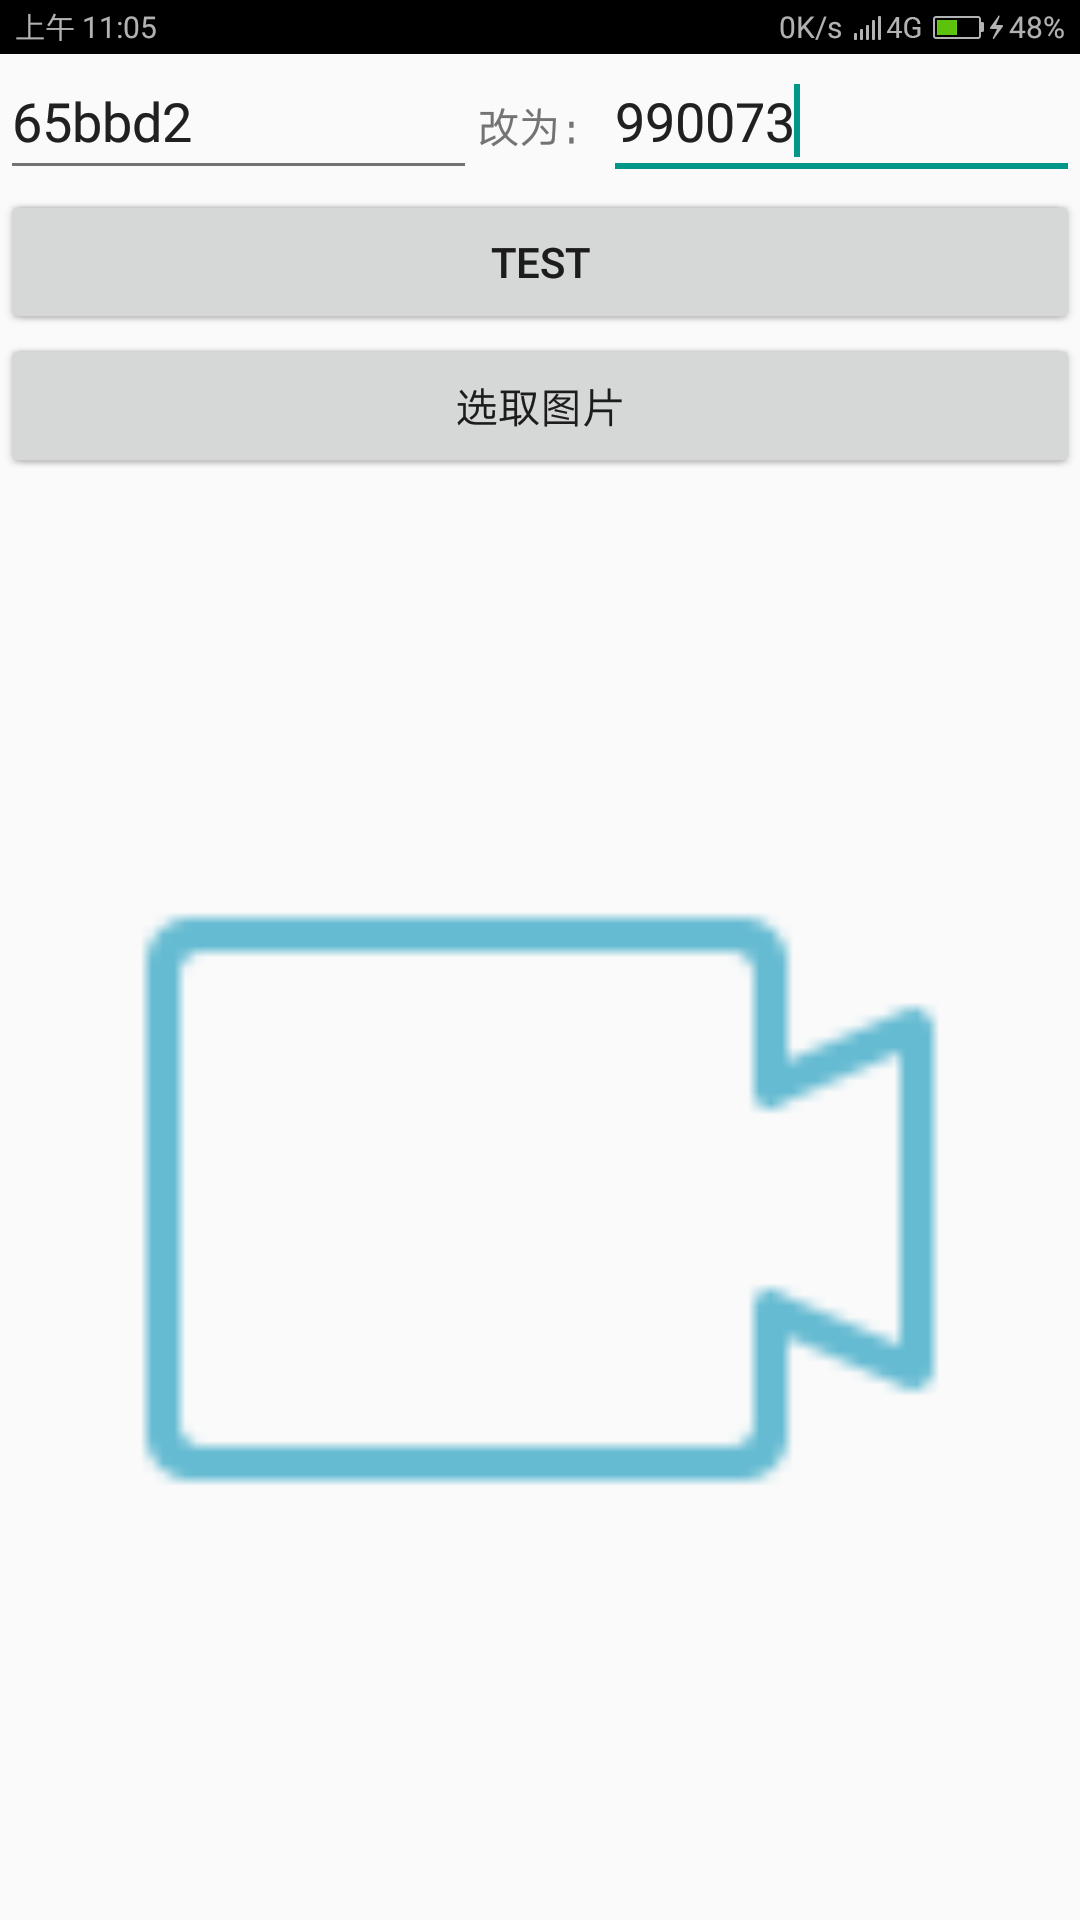
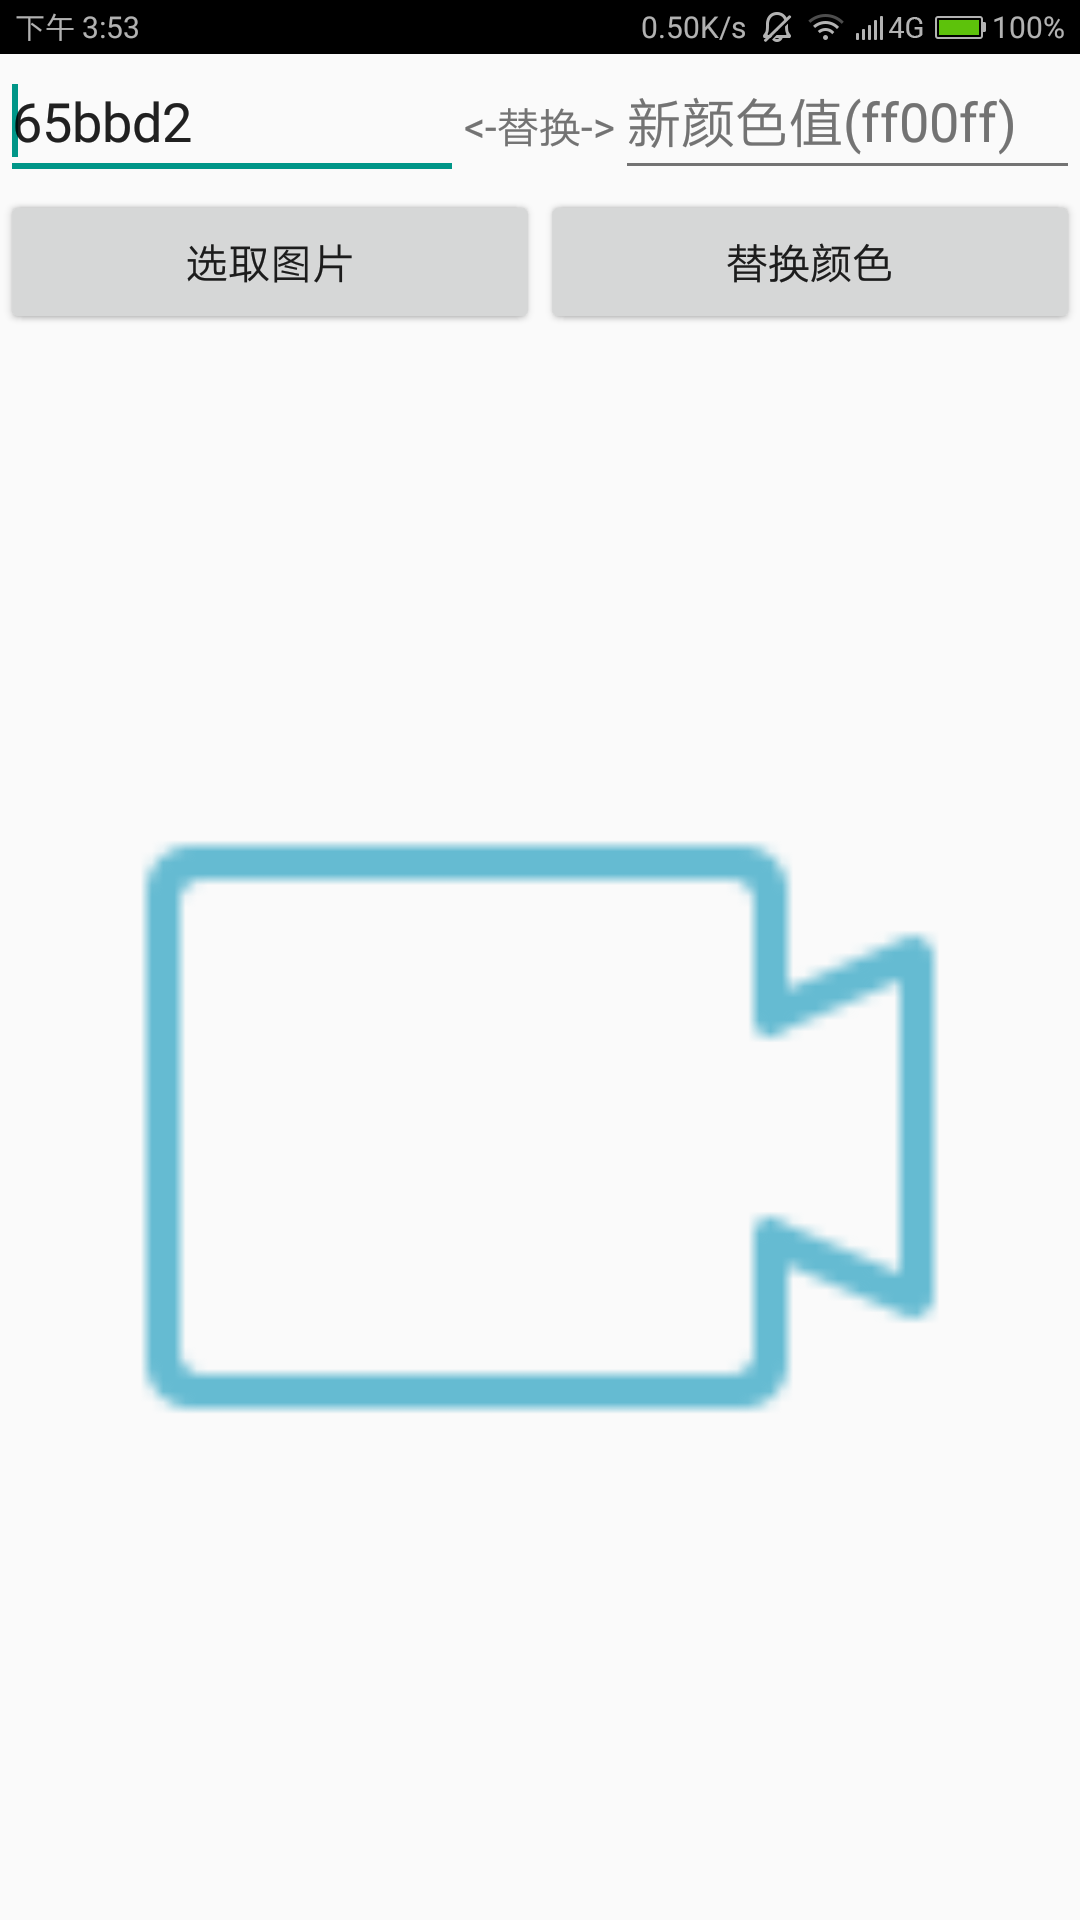
解决替换后选色还是原来图片的,修改页面布局

diff --git a/src/com/smarttiger/changergb/MainActivity.java b/src/com/smarttiger/changergb/MainActivity.java
@@ -50,15 +50,12 @@ public class MainActivity extends Activity {
 	private TextView textView;
 	
 	private Bitmap bitmap;
-	private Bitmap bitmapNew;
 	private Bitmap imageBitmap;//屏幕取色时用的
 	
 	private int bitmapWidth;
 	private int bitmapHeight;
 	private float imageviewWidth;
 	private float imageviewHeight;
-	
-	private ProgressDialog pDialog;
 	
 	@Override
 	protected void onCreate(Bundle savedInstanceState) {
@@ -85,9 +82,10 @@ public class MainActivity extends Activity {
 				int rgbNew = HexStringToInt(colorNew);
 				
 				if(TextUtils.isEmpty(colorOld)) {
-					bitmapNew = getAlphaBitmap(bitmap, rgbNew);
-					imageView.setImageBitmap(bitmapNew);
-					bitmap = bitmapNew;
+					bitmap = getAlphaBitmap(bitmap, rgbNew);
+					imageView.setImageBitmap(bitmap);
+					imageView.buildDrawingCache();
+					imageBitmap = imageView.getDrawingCache();
 					return;
 				} else if(!isColorString(colorOld)){
 					Toast toast = Toast.makeText(context, "格式错误！(f0f0f0)", 0);
@@ -97,13 +95,7 @@ public class MainActivity extends Activity {
 				}
 				
 				int rgbOld = HexStringToInt(colorOld);
-
-//				bitmapNew = changeBitmapRGB(bitmap, rgbOld, rgbNew);
-//				imageView.setImageBitmap(bitmapNew);
-//				imageBitmap = imageView.getDrawingCache();
 				
-//				pDialog = showProgress(context, "替换中");
-
 				ShowDialogUtil.showRainbowProgress(context, "替换中");
 				
 				new ChangeBitmapRGB().execute(rgbOld, rgbNew);
@@ -121,11 +113,11 @@ public class MainActivity extends Activity {
 		});
 		imageView.setOnTouchListener(new OnGetColorTouchListener());
 		
-		bitmap = BitmapFactory.decodeResource(getResources(), R.drawable.pic);
-		bitmapNew = getAlphaBitmap(bitmap, 0xff65bbd2);//0xffd59591,b8a59f
-		imageView.setImageBitmap(bitmapNew);
-		bitmap = bitmapNew;
 		
+		bitmap = BitmapFactory.decodeResource(getResources(), R.drawable.pic);
+		
+		bitmap = getAlphaBitmap(bitmap, 0xff65bbd2);//0xffd59591,b8a59f
+		imageView.setImageBitmap(bitmap);
 		
 //		bitmapNew = changeBitmapRGB(bitmap, 0, 0xffff0000);
 //		imageView.setImageBitmap(bitmapNew);
@@ -236,10 +228,14 @@ public class MainActivity extends Activity {
 		}
     	
 		protected void onPostExecute(Bitmap result) {
-
+			
 			imageView.setImageBitmap(result);
+			
+			bitmap = result;
+			imageView.buildDrawingCache();
 			imageBitmap = imageView.getDrawingCache();
-//			pDialog.cancel();
+			editOld.setText(editNew.getText());
+			
 			ShowDialogUtil.closeRainbowProgress();
 		};
     }
@@ -364,24 +360,10 @@ public class MainActivity extends Activity {
 		
 	}
 	
-	/**
-	 * 显示蓝色圆形进度条，可以通过返回值调用pDialog.cancel();来结束进度条。
-	 */
-	private ProgressDialog showProgress(Context context, String title)
-	{
-		ProgressDialog pDialog = new ProgressDialog(context, ProgressDialog.STYLE_SPINNER);
-		pDialog.setTitle(title);
-		pDialog.setCanceledOnTouchOutside(false);
-		pDialog.show();
-		return pDialog;
-	}
-	
-	
     @Override
     protected void onDestroy() {
     	// TODO Auto-generated method stub
     	bitmap.recycle();
-    	bitmapNew.recycle();
     	super.onDestroy();
     }
 }
